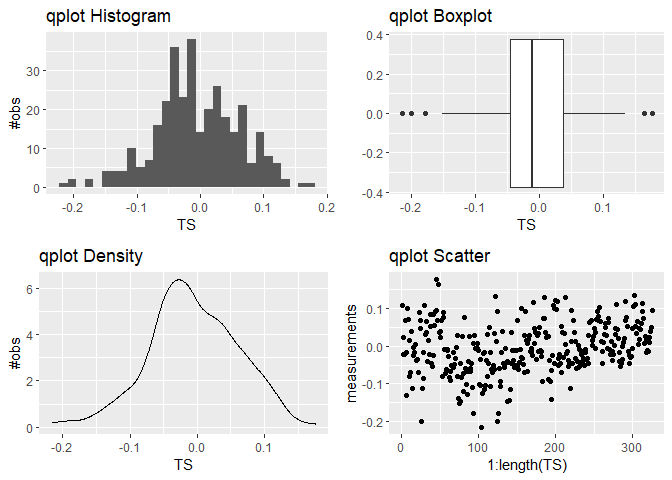
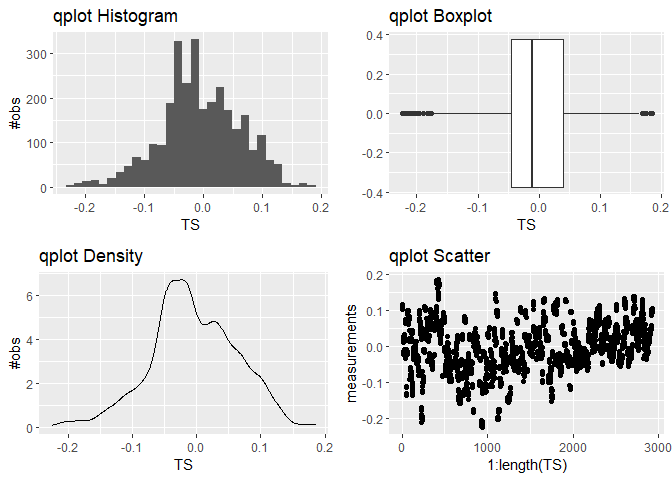
more readme

diff --git a/README.md b/README.md
@@ -25,45 +25,101 @@ This is a basic example which shows you how to solve a common problem:
 ``` r
 library(TSAIB)
 ## Initially extract the wanted time series data from your NetCDF object (nco) using GridTSExtract:
-# TSdata=GridTSExtract(nco,"longitude","latitude","date","sea_level_anomaly",c(-165,74),1,2,4)
-## See documentation for the data:
-?TSdata
-#> starting httpd help server ... done
+#?GridTSExtract
+# Description
+#  Extracts a time series from a NetCDF lon&lat coordinate grid
+# Usage
+#GridTSExtract(
+#  nco,
+#  lonid = "longitude",
+#  latid = "latitude",
+#  timeid = "date",
+#  measurementsid = "sea_level_anomaly",
+#  coord = c(-165, 74),
+#  radius = 0,
+#  dlon = 2,
+#  dlat = 4
+#)
+# Arguments
+#  nco: The NetCDF object (open with "nc_open" from the "ncdf4" library)
+#  lonid: The variable id for longitude vector. e.g.: "longitude"
+#  latid: The variable id for latitude vector. e.g.: "latitude"
+#  timeid: The variable id for the time vector. e.g.: "date"
+#  measurementsid: The variable id for the measurements vector. e.g.: "sea_level_anomaly"
+#  coord: The center coordinate for the TS grid area. e.g.: c(lon,lat) i.e. c(-164,74)
+#  radius: The square radius of the TS grid. e.g: 0=1x1 grid, 1=3x3 grid, 2=5x5 grid etc.
+#  dlon: Number of data points for each degree longitude
+#  dlat:Number of data points for each degree latitude
 
-TSdiagnostics(TSdata$TSmatrix[2,2,])
+#TSdata=GridTSExtract(nco,"longitude","latitude","date","sea_level_anomaly",c(-165,74),1,2,4)
+
+## See documentation for the data:
+#?TSdata
+# Description
+#  An extracted list using the "GridTSExtract" function, from the data set:
+#  Rose, S.K.; Andersen, O.B.; Passaro, M.; Ludwigsen, C.A.; Schwatke, 
+#  C. Arctic Ocean Sea Level Record from the Complete Radar 
+#  Altimetry Era: 1991�2018. Remote Sens. 2019, 11, 1672. 
+#  https://www.mdpi.com/2072-4292/11/14/1672"
+# Usage
+#  TSdata
+# Format
+#  A large list containing 5 elements, which are:
+#  longitude: containing longitudes from -180:180, by increments of 0.5 degrees (length: 720)
+#  latitude: containing latitudes from 65:81.5, by increments of 0.25 degrees (length: 67)
+#  date: containing years from 1991:2019, by increments of 1/12 (length:325)
+#  measurements: containing sea_level_anomaly measurements for each increments of: 
+#  longitude, latitude and date. (dimension: [67,720,325])
+#  TSmatrix: containing a 3x3x325 grid of measurements centered around (lon,lat)=(-165,74)
+
+## TSdiagnostics can be used to gather simple statistics about the data
+#?TSdiagnostics
+# Description
+#  Shows basic statistics and characteristics of the time series data
+# Usage
+#  TSdiagnostics(TS, nanrem = "FALSE")
+# Arguments
+#  TS:The time series to be analyzed
+#  nanrem: Set NaN to be removed or not. e.g.: nanrem="TRUE"
+
+TSdiagnostics(TSdata$TSmatrix,nanrem="TRUE") #analyze extracted dataset, and remove NaN
 #> `stat_bin()` using `bins = 30`. Pick better value with `binwidth`.
+#> Warning: Removed 4 rows containing non-finite values (stat_bin).
+#> Warning: Removed 4 rows containing non-finite values (stat_boxplot).
+#> Warning: Removed 4 rows containing non-finite values (stat_density).
+#> Warning: Removed 4 rows containing missing values (geom_point).
 ```
 
 <img src="man/figures/README-example-1.png" width="100%" />
 
     #> Number of NaN's in the data set
-    #> [1] 0
+    #> [1] 4
     #> Number of objects in the data set
-    #> [1] 325
+    #> [1] 2925
     #> Fraction of the data set which is NaN's
-    #> [1] 0
+    #> [1] 0.001367521
     #> mean
-    #> [1] -0.005424615
+    #> [1] -0.005382746
     #> standard deviation
-    #> [1] 0.06689967
+    #> [1] 0.06690633
     #> median
     #> [1] -0.011
     #> quantile
     #>     0%    25%    50%    75%   100% 
-    #> -0.215 -0.045 -0.011  0.038  0.176 
+    #> -0.224 -0.046 -0.011  0.040  0.185 
     #> sum
-    #> [1] -1.763
+    #> [1] -15.723
     #> 
     #>  One Sample t-test
     #> 
     #> data:  TS
-    #> t = -1.4618, df = 324, p-value = 0.1448
+    #> t = -4.3481, df = 2920, p-value = 1.42e-05
     #> alternative hypothesis: true mean is not equal to 0
     #> 95 percent confidence interval:
-    #>  -0.012725168  0.001875937
+    #>  -0.007810080 -0.002955411
     #> sample estimates:
     #>    mean of x 
-    #> -0.005424615
+    #> -0.005382746
 
 What is special about using `README.Rmd` instead of just `README.md`?
 You can include R chunks like so:
